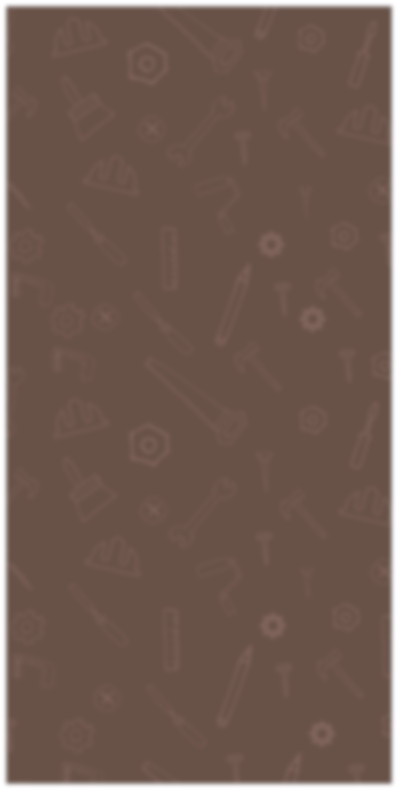
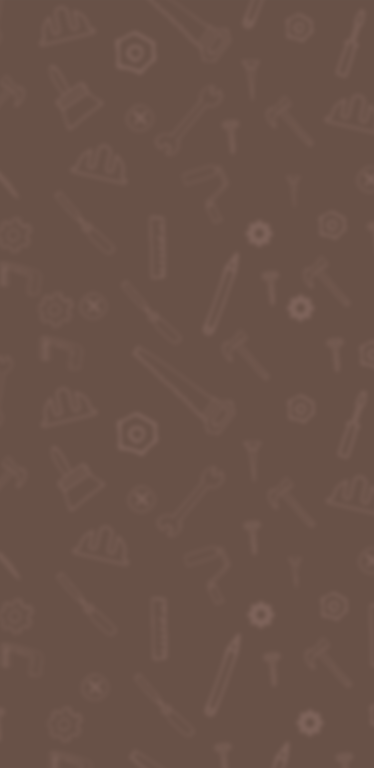
change background color

Changed region(s): [[0.0, 0.0, 1.0, 1.0]]

diff --git a/lib/main.dart b/lib/main.dart
@@ -44,55 +44,57 @@ class HomePage extends StatelessWidget {
                 fit: BoxFit.cover,
               ),
             ),
-            // color: Color.fromRGBO(67, 38, 25, .5),
-            child: Column(
-              mainAxisAlignment: MainAxisAlignment.start,
-              crossAxisAlignment: CrossAxisAlignment.center,
-              children: [
-                SizedBox(height: 10,),
-                Row(
-                  mainAxisAlignment: MainAxisAlignment.center,
-                  children: [
-                    Container(
-                      width: width * 0.8,
-                      child: logoWidget()
-                    ),
-                  ]
-                ),
-                SizedBox(height: 10,),
-                Container(
-                  width: width * 0.9,
-                  child: ProfileWidget(),
-                ),
-                SizedBox(height: 10,),
-                Container(
-                  width: width * 0.9,
-                  child: Row(
-                    mainAxisAlignment: MainAxisAlignment.start,
+            child: Container(
+              color: Color.fromRGBO(67, 38, 25, .3),
+              child: Column(
+                mainAxisAlignment: MainAxisAlignment.start,
+                crossAxisAlignment: CrossAxisAlignment.center,
+                children: [
+                  SizedBox(height: 10,),
+                  Row(
+                    mainAxisAlignment: MainAxisAlignment.center,
                     children: [
-                      Text(
-                        "Новости и акции", 
-                        style: TextStyle(
-                          color: Color.fromRGBO(248, 7, 7, .8),
-                          fontSize: 22,
-                          fontWeight: FontWeight.bold
-                        ),
-                        textAlign: TextAlign.left,
+                      Container(
+                        width: width * 0.8,
+                        child: logoWidget()
                       ),
                     ]
                   ),
-                ),
-                SizedBox(height: 5,),
-                Flexible(
-                  child: Container(
+                  SizedBox(height: 10,),
+                  Container(
                     width: width * 0.9,
-                    child: StocksWidget(),
+                    child: ProfileWidget(),
                   ),
-                ),
-              ]
-            )
+                  SizedBox(height: 10,),
+                  Container(
+                    width: width * 0.9,
+                    child: Row(
+                      mainAxisAlignment: MainAxisAlignment.start,
+                      children: [
+                        Text(
+                          "Новости и акции", 
+                          style: TextStyle(
+                            color: Color.fromRGBO(248, 7, 7, .8),
+                            fontSize: 22,
+                            fontWeight: FontWeight.bold
+                          ),
+                          textAlign: TextAlign.left,
+                        ),
+                      ]
+                    ),
+                  ),
+                  SizedBox(height: 5,),
+                  Flexible(
+                    child: Container(
+                      width: width * 0.9,
+                      child: StocksWidget(),
+                    ),
+                  ),
+                ]
+              )
+            ),
           ),
-        ),
+        )
       ),
     );
   }

diff --git a/lib/customWidgets/profileWidget.dart b/lib/customWidgets/profileWidget.dart
@@ -17,7 +17,7 @@ class ProfileWidget extends StatelessWidget {
         child: Container(
           decoration: BoxDecoration(
             image: DecorationImage(
-              image: AssetImage("assets/img/background.png"),
+              image: AssetImage("assets/img/card_background.png"),
               fit: BoxFit.cover,
             ),
           ),
